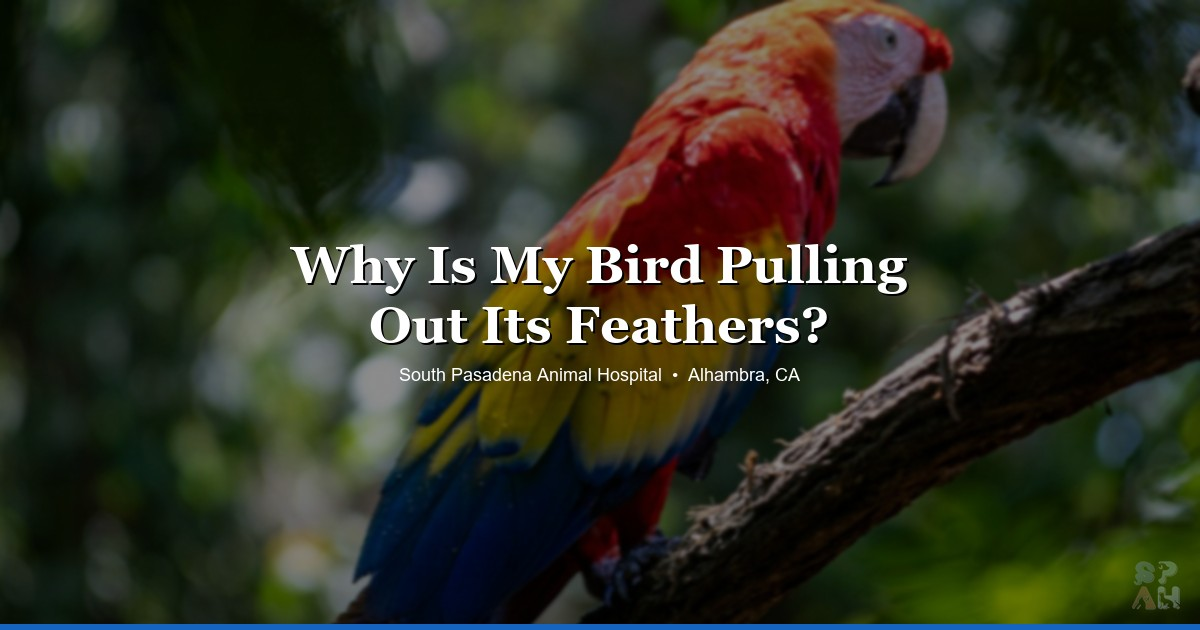
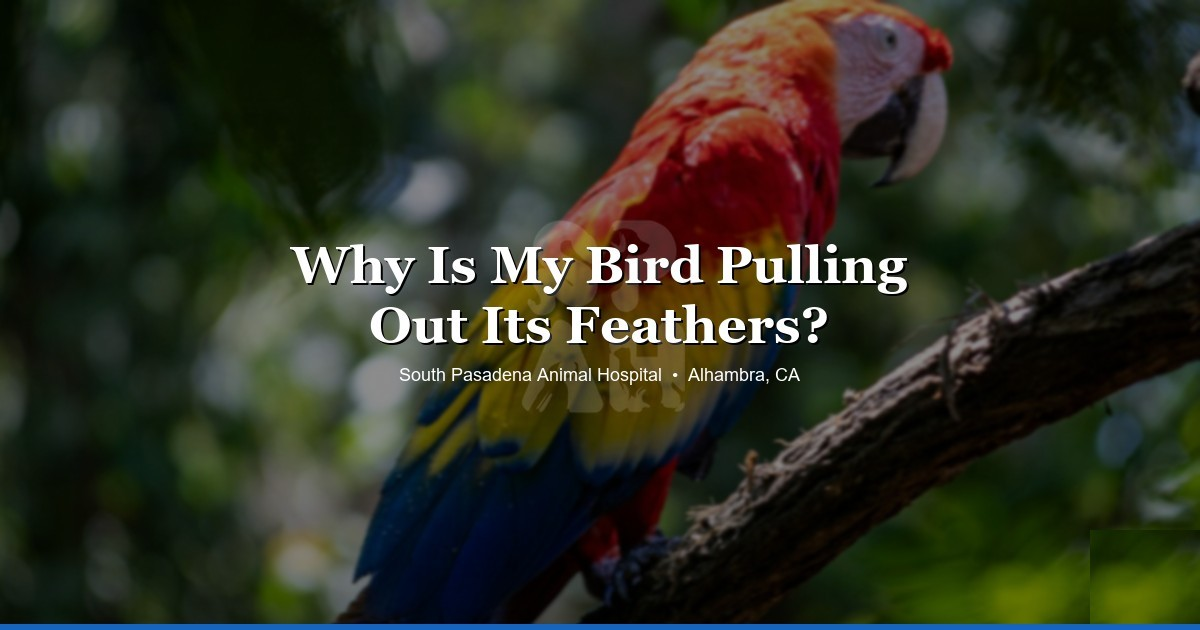
Update blog headers with centered SPAH watermark, rewrite corporate vs independent post
- Replaced corner watermark with centered white SPAH logo at 15% opacity
- Rewrote corporate vs independent vet post to focus on choosing the right vet
- Removed competitor names and negative framing
- Updated blog index card title and description to match

Changed region(s): [[0.4317, 0.3317, 0.5858, 0.6635], [0.8942, 0.8444, 1.0, 0.9952], [0.9867, 0.8444, 1.0, 0.8746]]

diff --git a/blog/corporate-vs-independent-vet-sgv.html b/blog/corporate-vs-independent-vet-sgv.html
@@ -4,19 +4,19 @@
   <meta charset="UTF-8" />
   <meta name="viewport" content="width=device-width, initial-scale=1.0" />
   <link rel="icon" type="image/png" href="../images/spah-logo.png" />
-  <title>Corporate vs. Independent Vet Clinics in the San Gabriel Valley — What to Know | SPAH Blog</title>
-  <meta name="description" content="Many SGV vet clinics have been quietly bought by corporations. Here's how to tell the difference and why it matters for your pet's care. From an independent Alhambra vet." />
-  <meta name="keywords" content="independent vet Alhambra, privately owned animal hospital, corporate vet vs independent, vet near me Alhambra, veterinarian South Pasadena, vet Pasadena, animal hospital San Gabriel Valley" />
+  <title>What to Look for in a Vet Clinic — Choosing the Right Animal Hospital in the SGV | SPAH Blog</title>
+  <meta name="description" content="Not all vet clinics are the same. Here's what to look for when choosing an animal hospital in Alhambra, South Pasadena, and the San Gabriel Valley — from an independently owned practice." />
+  <meta name="keywords" content="independent vet Alhambra, privately owned animal hospital, how to choose a vet, vet near me Alhambra, veterinarian South Pasadena, vet Pasadena, animal hospital San Gabriel Valley, best vet SGV" />
   <meta name="robots" content="index, follow" />
   <link rel="canonical" href="https://www.spah.la/blog/corporate-vs-independent-vet-sgv.html" />
   <meta property="og:type" content="article" />
-  <meta property="og:title" content="Corporate vs. Independent Vet Clinics in the San Gabriel Valley — What to Know | SPAH Blog" />
-  <meta property="og:description" content="Many SGV vet clinics have been quietly bought by corporations. Here's how to tell the difference and why it matters for your pet's care." />
+  <meta property="og:title" content="What to Look for in a Vet Clinic — Choosing the Right Animal Hospital in the SGV | SPAH Blog" />
+  <meta property="og:description" content="Not all vet clinics are the same. Here's what to look for when choosing an animal hospital in Alhambra, South Pasadena, and the San Gabriel Valley." />
   <meta property="og:url" content="https://www.spah.la/blog/corporate-vs-independent-vet-sgv.html" />
   <meta property="og:site_name" content="South Pasadena Animal Hospital" />
   <meta property="og:image" content="https://www.spah.la/images/blog/corporate-vs-independent-vet-header.jpg" />
   <script type="application/ld+json">
-  {"@context":"https://schema.org","@type":"BlogPosting","headline":"Corporate vs. Independent Vet Clinics in the SGV — What Most Pet Owners Don't Know","description":"Many SGV vet clinics have been quietly bought by corporations. Here's how to tell the difference and why it matters for your pet's care.","image":"https://www.spah.la/images/blog/corporate-vs-independent-vet-header.jpg","datePublished":"2026-04-08","dateModified":"2026-04-08","author":{"@type":"Organization","name":"South Pasadena Animal Hospital","url":"https://www.spah.la"},"publisher":{"@type":"Organization","name":"South Pasadena Animal Hospital","url":"https://www.spah.la","logo":{"@type":"ImageObject","url":"https://www.spah.la/images/spah-logo.png"}},"mainEntityOfPage":"https://www.spah.la/blog/corporate-vs-independent-vet-sgv.html"}
+  {"@context":"https://schema.org","@type":"BlogPosting","headline":"What to Look for in a Vet Clinic — Choosing the Right Animal Hospital in the SGV","description":"Not all vet clinics are the same. Here's what to look for when choosing an animal hospital in Alhambra, South Pasadena, and the San Gabriel Valley.","image":"https://www.spah.la/images/blog/corporate-vs-independent-vet-header.jpg","datePublished":"2026-04-08","dateModified":"2026-04-08","author":{"@type":"Organization","name":"South Pasadena Animal Hospital","url":"https://www.spah.la"},"publisher":{"@type":"Organization","name":"South Pasadena Animal Hospital","url":"https://www.spah.la","logo":{"@type":"ImageObject","url":"https://www.spah.la/images/spah-logo.png"}},"mainEntityOfPage":"https://www.spah.la/blog/corporate-vs-independent-vet-sgv.html"}
   </script>
   <script type="application/ld+json">
   {"@context":"https://schema.org","@type":"BreadcrumbList","itemListElement":[{"@type":"ListItem","position":1,"name":"Home","item":"https://www.spah.la/"},{"@type":"ListItem","position":2,"name":"Blog","item":"https://www.spah.la/blog/"},{"@type":"ListItem","position":3,"name":"Corporate vs Independent Vet"}]}
@@ -92,62 +92,70 @@
   <article class="max-w-3xl mx-auto px-6 py-12">
     <div class="mb-8">
       <span class="inline-block px-3 py-1 rounded-full text-xs font-bold tracking-widest uppercase" style="background:#FFF3E0;color:#E65100;">Pet Ownership</span>
-      <p class="font-body text-dark/50 text-sm mt-3">April 8, 2026 &middot; 8 min read</p>
+      <p class="font-body text-dark/50 text-sm mt-3">April 8, 2026 &middot; 7 min read</p>
     </div>
 
-    <h1 class="font-display text-3xl sm:text-4xl font-bold text-dark mb-6" style="letter-spacing:-0.02em;line-height:1.2;">Corporate vs. Independent Vet Clinics in the SGV &mdash; What Most Pet Owners Don't Know &#127973;</h1>
+    <h1 class="font-display text-3xl sm:text-4xl font-bold text-dark mb-6" style="letter-spacing:-0.02em;line-height:1.2;">What to Look for in a Vet Clinic &mdash; A Guide for SGV Pet Owners &#127973;</h1>
 
-    <img src="../images/blog/corporate-vs-independent-vet-header.jpg" alt="South Pasadena Animal Hospital aerial — corporate vs independent vet clinics in the San Gabriel Valley" width="1200" height="630" style="width:100%;height:auto;border-radius:0.75rem;margin-bottom:2rem;" />
+    <img src="../images/blog/corporate-vs-independent-vet-header.jpg" alt="South Pasadena Animal Hospital — how to choose a vet clinic in the San Gabriel Valley" width="1200" height="630" style="width:100%;height:auto;border-radius:0.75rem;margin-bottom:2rem;" />
 
     <div class="prose">
-      <p>Here's something most pet owners in the San Gabriel Valley don't realize: a lot of the vet clinics you grew up going to aren't independently owned anymore. Over the past decade, large corporations &mdash; Mars (the candy company, yes), NVA, VCA, Thrive &mdash; have been buying up small animal hospitals across Los Angeles at a rapid pace. The clinic keeps its name, keeps its sign out front, sometimes even keeps the same staff for a while. But the ownership changed, and with it, a lot of the decisions about how care gets delivered.</p>
-      <p>This isn't a hit piece on corporate veterinary medicine. Plenty of corporate clinics do good work. But the difference between corporate-owned and independently owned matters more than most people think, and almost nobody talks about it openly. So let's.</p>
+      <p>Choosing a veterinarian is one of the most important decisions you'll make as a pet owner. In a place like the San Gabriel Valley &mdash; where there are dozens of animal hospitals within a 10-mile radius of Alhambra alone &mdash; the options can feel overwhelming. Most people end up picking based on proximity, Google reviews, or wherever they can get an appointment fastest.</p>
+      <p>Those aren't bad starting points. But once you've narrowed the list, there are a few things worth paying attention to that most pet owners overlook. Here's what we think actually matters when choosing where to take your pet.</p>
 
-      <h2>What Happened in the SGV</h2>
-      <p>In Alhambra, South Pasadena, Pasadena, Highland Park, and San Gabriel alone, several clinics that were independently owned five to ten years ago are now corporate-owned. The signs are still the same. The Yelp reviews might still reference the old owner. But the business model changed.</p>
-      <p>This isn't unique to the SGV &mdash; it's happening everywhere. Nationwide, corporate groups have acquired thousands of veterinary practices over the last decade. The pace picked up around 2018&ndash;2020, and it hasn't slowed down much since. Private equity firms saw veterinary medicine as a stable, recession-resistant industry with fragmented ownership (lots of small practices, easy to roll up), and the acquisitions took off from there.</p>
-      <p>Most of the time, the practice doesn't announce the sale. There's no press release. The name stays. The logo stays. If you weren't paying close attention, you'd never know anything changed.</p>
+      <h2>Continuity of Care</h2>
+      <p>This is probably the single most underrated factor in veterinary medicine. When you see the same doctor visit after visit, they build a real understanding of your pet &mdash; not just what's in the chart, but the small things. How your dog acts when she's nervous versus when she's actually in pain. That your cat's bloodwork always runs a little high on one value but it's been that way for years. That your rabbit stopped eating pellets once before and it turned out to be a tooth issue.</p>
+      <p>That kind of knowledge takes time to build, and it leads to better care. A vet who's seen your pet through multiple visits can spot subtle changes that a new set of eyes might miss.</p>
+      <p>When you're evaluating a clinic, ask: <strong>Will I see the same veterinarian each time?</strong> Some practices rotate doctors frequently, and while every vet on staff may be perfectly capable, there's real value in having one person who knows your pet's full story.</p>
 
-      <h2>How to Tell if Your Vet Is Corporate-Owned</h2>
-      <p>There's no single giveaway, but here are patterns we hear about from pet owners who've switched clinics:</p>
+      <h2>Transparent Pricing</h2>
+      <p>Veterinary care can be expensive, and most pet owners have experienced some version of sticker shock at checkout. One of the easiest ways to build trust between a clinic and a client is pricing transparency.</p>
+      <p>Before you commit to a clinic, see if you can answer these questions:</p>
       <ul>
-        <li><strong>Rotating vets.</strong> You used to see the same doctor every time. Now there's a different face at every visit, and nobody seems to remember your pet's history without checking the chart.</li>
-        <li><strong>Prices going up without explanation.</strong> Fees increase, sometimes significantly, and the front desk can't really tell you why.</li>
-        <li><strong>Being pushed toward packages or wellness plans.</strong> Monthly billing "care plans" that bundle services together. These aren't always a bad deal, but they're a hallmark of corporate practice management.</li>
-        <li><strong>Recommendations that feel upsell-y.</strong> Every visit seems to end with a list of add-ons &mdash; additional bloodwork, dental packages, supplements sold in-house.</li>
-        <li><strong>Corporate-looking intake forms and branding.</strong> Slick, standardized paperwork that looks like it was designed by a marketing department rather than printed at Office Depot.</li>
+        <li>Can you find out what a standard exam costs before you book?</li>
+        <li>Does the clinic provide estimates before procedures?</li>
+        <li>Are you told about costs <em>before</em> services are performed, not after?</li>
+        <li>Is the pricing available online, or do you have to call and ask?</li>
       </ul>
-      <p>None of these things are automatically bad. But they're worth noticing.</p>
+      <p>At <a href="../pricing.html">South Pasadena Animal Hospital</a>, we post our pricing online because we believe you should know what things cost before you walk in the door. No surprises, no hidden fees. You pay for what your pet needs, when they need it.</p>
 
-      <h2>What Actually Changes When a Clinic Gets Acquired</h2>
-      <p>When a corporation buys a veterinary practice, a few things tend to shift over time:</p>
-      <p><strong>Vet turnover increases.</strong> The original owner often stays on for a year or two as part of the sale agreement, then leaves. Associate vets come and go more frequently. The continuity you had &mdash; one doctor who knew your dog's whole history, who remembered that your cat hates being held a certain way &mdash; that fades.</p>
-      <p><strong>Pricing often goes up.</strong> Corporate groups have overhead that independent practices don't: regional managers, corporate offices, marketing departments, investor returns. That cost gets passed somewhere, and usually it's into the fee schedule.</p>
-      <p><strong>Treatment recommendations may lean toward more testing and more procedures.</strong> This is the one people get most uncomfortable talking about. Corporate groups set revenue targets. Individual clinics are expected to hit numbers. That doesn't mean every recommendation is profit-motivated &mdash; most vets genuinely care about doing right by animals regardless of who signs their paycheck. But the incentive structure is different. When there's pressure from above to increase average transaction value, it can subtly shape what gets recommended and how aggressively.</p>
-      <p><strong>The "we know your pet" factor fades.</strong> Independent practices tend to build relationships. The vet knows your pet's quirks, the front desk knows your name, someone remembers that your rabbit doesn't tolerate a certain medication. At a corporate practice with high turnover, that institutional memory gets thinner over time.</p>
-      <p>Again &mdash; corporate vet care isn't evil. Some corporate clinics are great. The vets working in them are real veterinarians who went through the same training and genuinely want to help animals. But the incentive structure is different, and that's worth understanding.</p>
-
-      <h2>What Independent Looks Like</h2>
-      <p>At <a href="../about.html">South Pasadena Animal Hospital</a>, Dr. Sylvia Chiang and Dr. Gina Navia own the practice. They set the prices. They decide what gets recommended and what doesn't. There's no corporate office sending down protocols about how many blood panels to run per month.</p>
-      <p>If we tell you your dog needs bloodwork, it's because your dog needs bloodwork &mdash; not because we're trying to hit a number. If we tell you something can wait, it can wait. There's no regional manager looking at our average invoice totals.</p>
-      <p>That's not a sales pitch. It's just how the math works when the people treating your pet are the same people who own the business. The incentive is to do right by you, keep your trust, and have you come back. Not to maximize revenue per visit.</p>
-      <p>We also don't do wellness plans or monthly billing packages. You pay for what your pet needs, when they need it. Our <a href="../pricing.html">pricing is posted online</a> because we think you should be able to see what things cost before you walk in the door.</p>
-
-      <h2>How to Choose the Right Clinic for You</h2>
-      <p>Whether you end up at an independent clinic or a corporate one, these are the things that actually matter:</p>
+      <h2>How Recommendations Are Made</h2>
+      <p>A great veterinarian explains the <em>why</em> behind every recommendation. You should always feel like you understand what's being suggested, what the alternatives are, and what happens if you wait.</p>
+      <p>Here's what that looks like in practice:</p>
       <ul>
-        <li><strong>Do you see the same vet consistently?</strong> Continuity of care matters. Your vet should know your pet, not just your pet's chart.</li>
-        <li><strong>Are recommendations explained clearly and honestly?</strong> You should understand why something is being suggested and what happens if you don't do it. No guilt trips, no pressure.</li>
-        <li><strong>Do you feel pressured or informed?</strong> There's a real difference. A good vet gives you options and lets you decide. A pressured visit feels like you're being sold something.</li>
-        <li><strong>Can you call and talk to someone who knows your pet?</strong> Try calling your vet's office with a question. Do you get someone helpful, or do you get a call center?</li>
-        <li><strong>Is pricing transparent?</strong> Can you find out what an exam costs before you book? Are estimates given before procedures? Are there surprise charges on the invoice you didn't expect?</li>
+        <li><strong>Options, not ultimatums.</strong> A good vet presents a range of approaches &mdash; from the gold standard to more conservative options &mdash; and helps you decide what makes sense for your pet and your budget.</li>
+        <li><strong>Honest "no" when appropriate.</strong> Sometimes the best recommendation is "let's wait and see" or "your pet doesn't need that right now." You want a vet who's comfortable saying that.</li>
+        <li><strong>No pressure at checkout.</strong> You shouldn't leave a vet visit feeling like you just sat through a sales pitch. Diagnostics and treatments should feel medically motivated, not transactional.</li>
       </ul>
-      <p>These questions work for any clinic. Corporate or independent, the answers tell you a lot about how the practice is run and whose interests come first.</p>
+      <p>At SPAH, Dr. Sylvia Chiang and Dr. Gina Navia make every clinical decision themselves. If we recommend bloodwork, it's because your pet needs it. If something can wait, we'll tell you it can wait.</p>
 
-      <h2>Why We're Talking About This</h2>
-      <p>We're not writing this to trash anyone. Honestly, some of the corporate clinics in the SGV have good vets doing good work. We know some of them personally.</p>
-      <p>But we think pet owners deserve to know what they're walking into. If your clinic got acquired three years ago and you had no idea, that's not transparency. If prices went up 40% and nobody explained why, that's not a good sign. And if you're Googling "vet near me" and choosing between five clinics that all look independent but three of them are actually owned by the same holding company &mdash; you should know that.</p>
-      <p>We're at 3116 W Main St in Alhambra, serving families from South Pasadena, Pasadena, Highland Park, San Gabriel, and across the SGV. Privately owned, no corporate backing, no private equity. Just two vets who built this practice from scratch and still work in it every day.</p>
+      <h2>The Team Behind the Clinic</h2>
+      <p>Veterinary practices come in all shapes and sizes. Some are large multi-doctor hospitals. Some are part of bigger networks. Some are small, owner-operated clinics where the same people show up every day.</p>
+      <p>There's no single "right" model &mdash; what matters is whether the team is engaged, consistent, and personally invested in your pet's care. A few things to look for:</p>
+      <ul>
+        <li><strong>Low staff turnover.</strong> When the same team sticks around year after year, it means the work environment is healthy and the people genuinely care about being there.</li>
+        <li><strong>The front desk knows your name.</strong> Small thing, big signal. If the person answering the phone remembers you and your pet, that's a clinic that pays attention.</li>
+        <li><strong>You can actually reach someone.</strong> Call the clinic with a question. Do you get a person who can help, or a phone tree? Can someone familiar with your pet get back to you the same day?</li>
+      </ul>
+      <p><a href="../about.html">South Pasadena Animal Hospital</a> is owned and operated by Dr. Chiang and Dr. Navia. They're here every day. The team is small on purpose &mdash; it means every person on staff knows your pet by name, not just by file number.</p>
+
+      <h2>Exotic Pet Capabilities</h2>
+      <p>If you have a rabbit, guinea pig, reptile, bird, or any other non-cat-and-dog pet, this one matters a lot. Not every veterinarian is trained or equipped to treat exotic animals, and bringing an exotic pet to a clinic that primarily sees dogs and cats can lead to missed diagnoses or inappropriate treatment.</p>
+      <p>Ask up front: <strong>Does this clinic regularly see my type of pet?</strong> There's a big difference between a clinic that <em>can</em> see your bearded dragon and one that sees bearded dragons every week.</p>
+      <p>SPAH treats a wide range of exotic pets alongside dogs and cats &mdash; including rabbits, guinea pigs, hamsters, chinchillas, birds, bearded dragons, ball pythons, turtles, and more. It's a core part of what we do, not an afterthought. You can see our full list on our <a href="../services.html">services page</a>.</p>
+
+      <h2>Location and Accessibility</h2>
+      <p>This seems obvious, but it's worth thinking about beyond just "what's closest." Consider:</p>
+      <ul>
+        <li><strong>Drive time in an emergency.</strong> How far is the clinic from your home, and is it easy to get to during rush hour? In the SGV, a clinic that's 3 miles away can be a 25-minute drive at 5 PM.</li>
+        <li><strong>Parking.</strong> Street parking only? A tight lot? When you're carrying a stressed cat in a carrier or walking an anxious dog, easy parking matters more than you'd think.</li>
+        <li><strong>Hours that work for your schedule.</strong> Can you get appointments on days that fit your work schedule? Are there weekend options?</li>
+      </ul>
+      <p>Our clinic is located at <strong>3116 W Main St in Alhambra</strong>, with easy access from South Pasadena, Pasadena, San Marino, Highland Park, San Gabriel, and the rest of the SGV. We have dedicated parking on-site so you're never circling the block with a pet in the car.</p>
+
+      <h2>Trust Your Gut</h2>
+      <p>At the end of the day, you know your pet better than anyone. And you know when something feels right. The best vet-client relationships are built on trust, communication, and the sense that everyone in the room genuinely cares about the animal on the table.</p>
+      <p>If you're in the San Gabriel Valley and looking for a vet who takes the time to know your pet, explains things honestly, and treats your animal like family &mdash; we'd love to meet you. <a href="../about.html">Learn more about our team</a> or <a href="https://southpasah.usw2.ezyvet.com/external/portal/main/login?id=2" target="_blank">book an appointment online</a>.</p>
     </div>
   </article>
 
@@ -177,8 +185,8 @@
 
   <section class="py-16 text-center" style="background:linear-gradient(135deg,#5A7FA6,#7A9E8E);">
     <div class="max-w-2xl mx-auto px-6 text-white">
-      <h2 class="font-display text-3xl font-bold mb-4">Looking for an independent vet in the SGV?</h2>
-      <p class="font-body text-white/80 text-lg mb-6" style="line-height:1.7;">South Pasadena Animal Hospital is privately owned by Dr. Chiang and Dr. Navia. We see dogs, cats, and exotic pets at our Alhambra clinic. Come meet us.</p>
+      <h2 class="font-display text-3xl font-bold mb-4">Find the right vet for your pet</h2>
+      <p class="font-body text-white/80 text-lg mb-6" style="line-height:1.7;">South Pasadena Animal Hospital sees dogs, cats, and exotic pets at our Alhambra clinic. Owned and operated by Dr. Chiang and Dr. Navia &mdash; come meet us.</p>
       <div class="flex flex-wrap gap-4 justify-center">
         <a href="https://southpasah.usw2.ezyvet.com/external/portal/main/login?id=2" target="_blank" class="bg-white text-brand font-body font-bold rounded-full px-8 py-3 hover:bg-warm transition-colors duration-200">Book Online</a>
         <a href="tel:6264411314" class="border-2 border-white/50 text-white font-body font-bold rounded-full px-8 py-3 hover:bg-white/10 transition-colors duration-200">(626) 441-1314</a>

diff --git a/blog/index.html b/blog/index.html
@@ -340,10 +340,10 @@
           </div>
           <div class="p-6">
             <div class="mb-3">
-              <span class="tag tag-clinic-news">Clinic News</span>
+              <span class="tag" style="background:#FFF3E0;color:#E65100;">Pet Ownership</span>
             </div>
-            <h2 class="font-display text-xl font-bold text-dark mb-2" style="letter-spacing:-0.01em;">Corporate vs. Independent Vet Clinics in the SGV &mdash; What's the Difference?</h2>
-            <p class="font-body text-muted text-sm leading-relaxed" style="line-height:1.6;">VCA, Banfield, or your local independent vet? An honest breakdown of what actually changes when a clinic gets acquired.</p>
+            <h2 class="font-display text-xl font-bold text-dark mb-2" style="letter-spacing:-0.01em;">What to Look for in a Vet Clinic &mdash; A Guide for SGV Pet Owners</h2>
+            <p class="font-body text-muted text-sm leading-relaxed" style="line-height:1.6;">From continuity of care to transparent pricing &mdash; the things that actually matter when choosing an animal hospital in the San Gabriel Valley.</p>
             <p class="font-body text-brand text-sm font-bold mt-4">Read more &rarr;</p>
           </div>
         </a>
